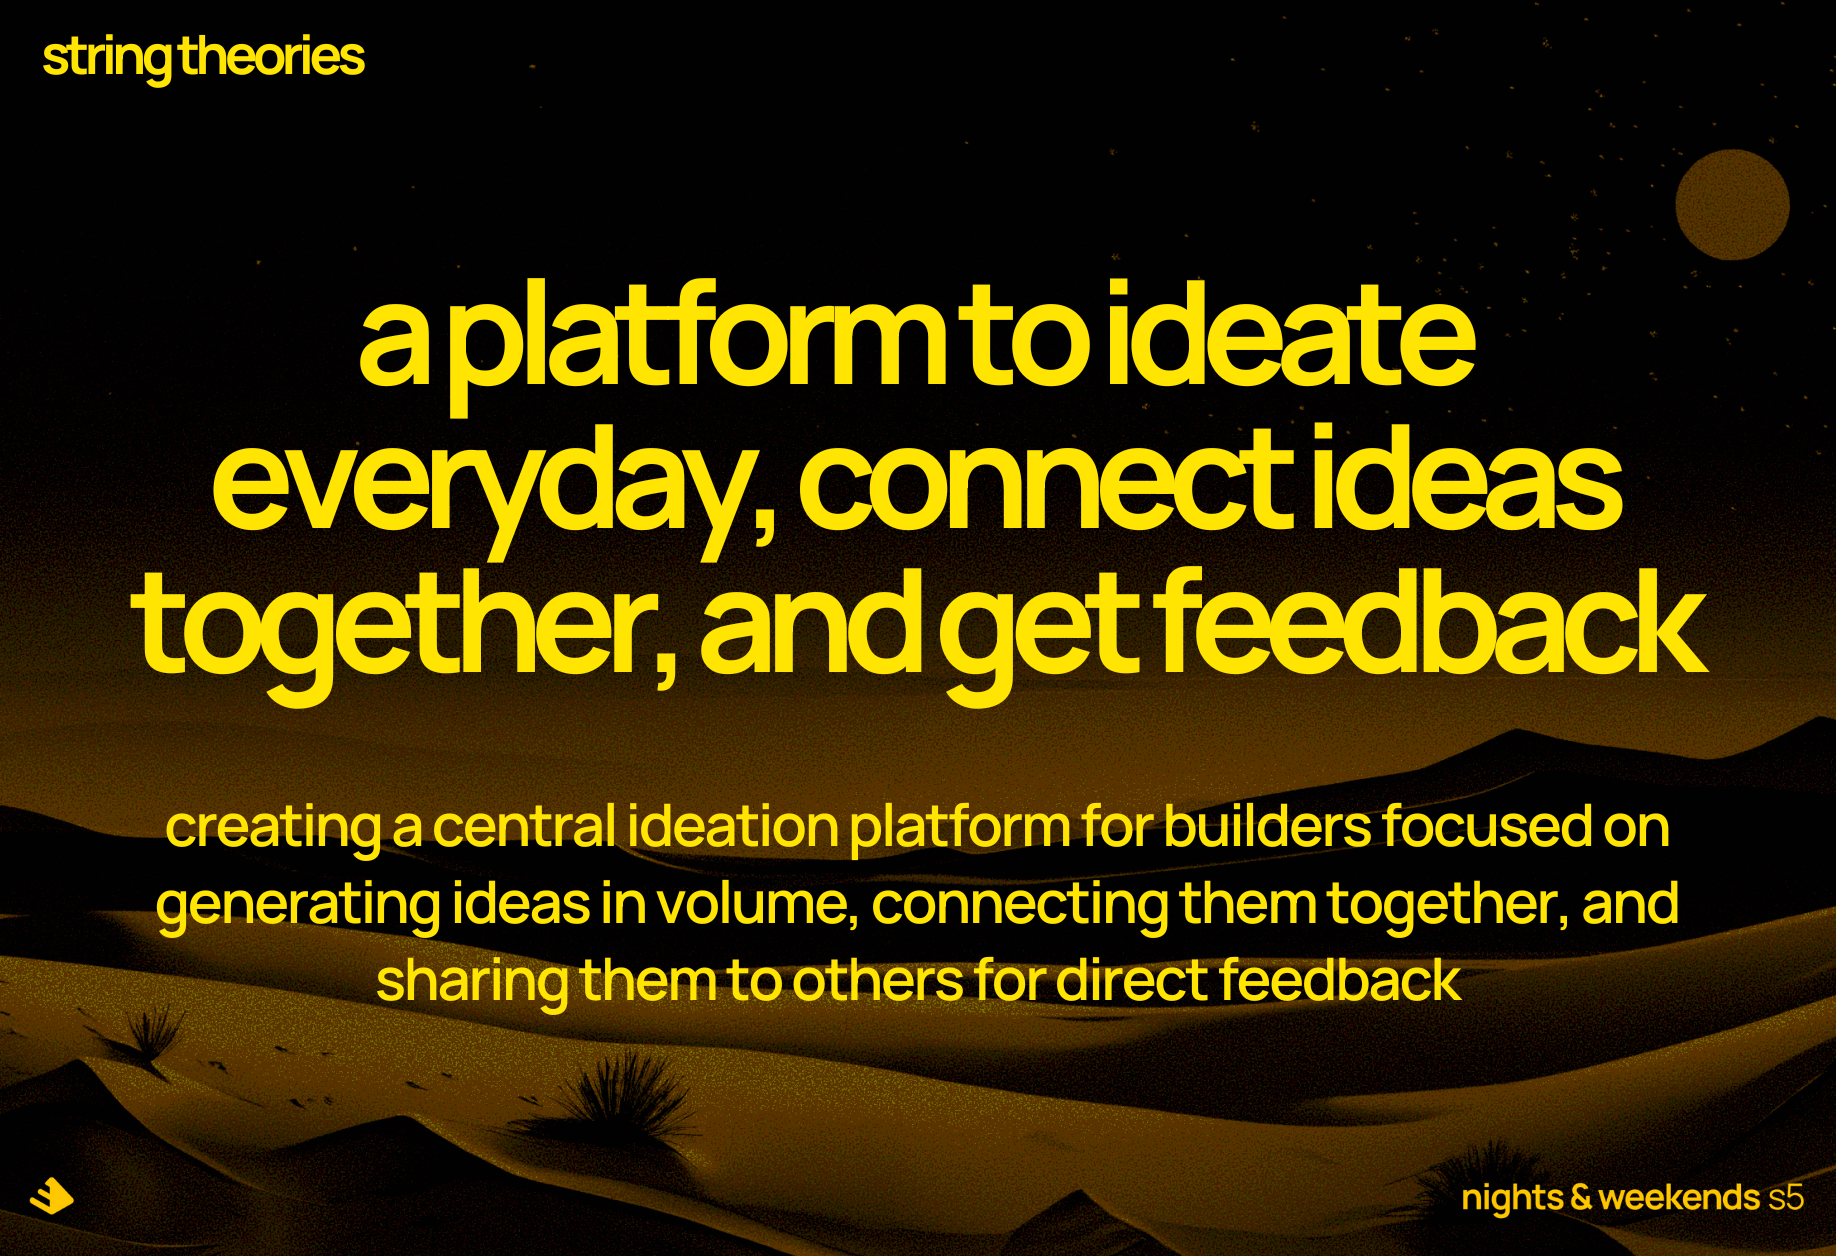
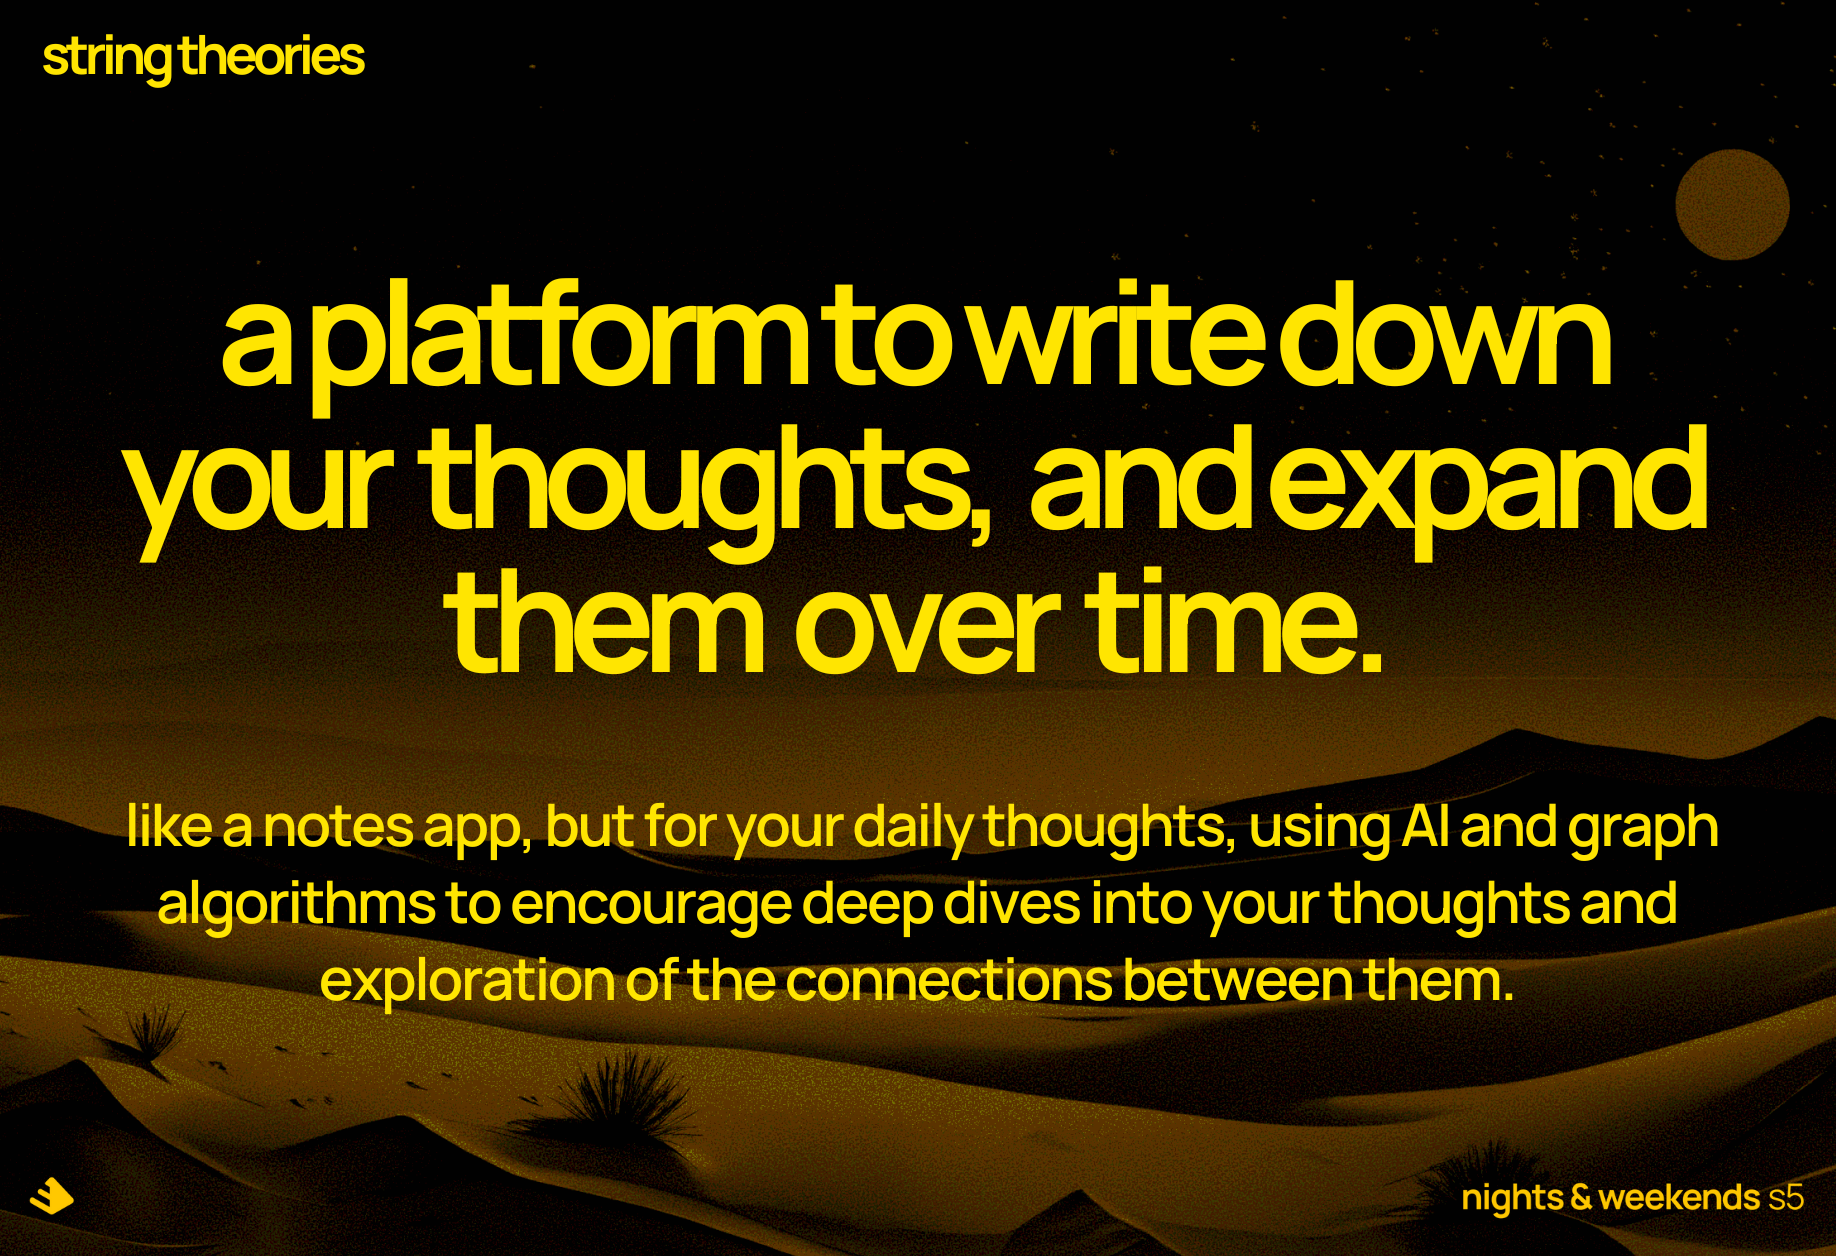
Adding thought summarization of long form thoughts

Changed region(s): [[0.0621, 0.2174, 0.9314, 0.5589], [0.0621, 0.621, 0.9314, 0.8073]]

diff --git a/chat_client.py b/chat_client.py
@@ -2,7 +2,7 @@ import json
 import time
 import streamlit as st
 from openai import OpenAI
-from constants import OPENAI_INITIAL_CONVERSATION
+from constants import OPENAI_INITIAL_CONVERSATION, SUMMARIZE_THOUGHT_INITIAL
 from supabase_client import SupabaseClient
 from constants import DESCRIPTION_MAX, SUMMARY_MAX, THOUGHT_TYPES, CHAT_WELCOME_MESSAGE
 
@@ -56,6 +56,83 @@ class OpenAIChat(object):
         self.display_conversation.append(
             {"role": "assistant", "content": initial_prompt}
         )
+
+    def summarize_thought(self, thought_text):
+        completion = self.open_ai.chat.completions.create(
+            model="gpt-3.5-turbo",
+            response_format={"type": "json_object"},
+            messages=[
+                {
+                    "role": "system",
+                    "content": SUMMARIZE_THOUGHT_INITIAL,
+                },
+                {
+                    "role": "user",
+                    "content": thought_text,
+                },
+            ],
+        )
+
+        response = completion.choices[0].message.content
+        obj = json.loads(response)
+        print(obj)
+        summary: str = obj["one_line"]
+        description: str = obj["thought_summary"]
+        questions: list = obj["questions"]
+        problems: list = obj["problems"]
+        solutions: list = obj["solutions"]
+        if thought := st.session_state.supabase.add_thought(
+            summary, description, "thought"
+        ):
+            st.session_state.thoughts = [thought] + st.session_state.thoughts
+            st.session_state.thought_map[thought["id"]] = thought
+            thought["connections"] = []
+            st.success("Your thought has been added!")
+            for question in questions:
+                if question_thought := st.session_state.supabase.add_thought(
+                    question, question, "question"
+                ):
+                    st.session_state.thoughts = [
+                        question_thought
+                    ] + st.session_state.thoughts
+                    st.session_state.thought_map[question_thought["id"]] = (
+                        question_thought
+                    )
+                    st.session_state.supabase.connect_thought(
+                        thought["id"], question_thought["id"]
+                    )
+                    thought["connections"].append(question_thought["id"])
+            for problem in problems:
+                if problem_thought := st.session_state.supabase.add_thought(
+                    problem, problem, "problem"
+                ):
+                    st.session_state.thoughts = [
+                        problem_thought
+                    ] + st.session_state.thoughts
+                    st.session_state.thought_map[problem_thought["id"]] = (
+                        problem_thought
+                    )
+                    st.session_state.supabase.connect_thought(
+                        thought["id"], problem_thought["id"]
+                    )
+                    thought["connections"].append(problem_thought["id"])
+            for solution in solutions:
+                if solution_thought := st.session_state.supabase.add_thought(
+                    solution, solution, "solution"
+                ):
+                    st.session_state.thoughts = [
+                        solution_thought
+                    ] + st.session_state.thoughts
+                    st.session_state.thought_map[solution_thought["id"]] = (
+                        solution_thought
+                    )
+                    st.session_state.supabase.connect_thought(
+                        thought["id"], solution_thought["id"]
+                    )
+                    thought["connections"].append(solution_thought["id"])
+        else:
+            st.error("Error. Thought could not be added.")
+        return thought
 
     def open_chat(self):
         st.session_state.chat_open = True

diff --git a/your_thoughts.py b/your_thoughts.py
@@ -10,6 +10,7 @@ from constants import (
 )
 from supabase_client import SupabaseClient
 from chat_client import OpenAIChat
+from streamlit_mic_recorder import speech_to_text
 
 
 ################################################################################
@@ -189,6 +190,34 @@ def connect_thoughts_dialog(curr_thought):
         st.rerun()
 
 
+@st.experimental_dialog("Think Out Loud", width="large")
+def think_out_loud_dialog():
+    st.markdown(
+        "### Just write down or record your stream of consciousness, and we'll help you organize it into thoughts!"
+    )
+    transcribed = speech_to_text(
+        language="en",
+        start_prompt="🔴 Record Audio",
+        stop_prompt="🛑 Stop Recording",
+        just_once=False,
+        use_container_width=False,
+        callback=None,
+        key="thought_recording",
+    )
+    with st.form(key="thought_form"):
+        thought_text = st.text_area(
+            "Your thoughts:", value=transcribed if transcribed else ""
+        )
+        submit_button = st.form_submit_button("Submit")
+    if submit_button:
+        if thought_text:
+            st.session_state.chat.summarize_thought(thought_text)
+            st.success("Your thoughts have been organized!")
+            st.rerun()
+        else:
+            st.error("Please make sure all fields are filled out.")
+
+
 ################################################################################
 ################################ IDEATION PAGE #################################
 ################################################################################
@@ -210,14 +239,33 @@ def sort_thoughts_by_date():
 
 def thought_page():
     supabase: SupabaseClient = st.session_state.supabase
+    chat: OpenAIChat = st.session_state.chat
 
     # Initialize session state to store thoughts
     if "thoughts" not in st.session_state:
         st.session_state.thoughts = supabase.list_thoughts(st.session_state.user_id)
 
-    # Display all thoughts
-    if st.button("Add Thoughts", use_container_width=True, type="primary"):
-        new_thought_dialog()
+    button_l, button_r, button_edge = st.columns((5, 5, 1))
+
+    with button_l:
+        # Display all thoughts
+        if st.button("Add a Thought", use_container_width=True, type="primary"):
+            new_thought_dialog()
+
+    with button_r:
+        if st.button(
+            "Stream of Consciousness", use_container_width=True, type="primary"
+        ):
+            think_out_loud_dialog()
+    with button_edge:
+        if st.button(
+            "💬",
+            use_container_width=True,
+            type="primary",
+            help="Have an open-ended conversation with the AI.",
+        ):
+            chat.initialize_general_chat()
+            chat.open_chat()
 
     # st.divider()
     if st.session_state.thoughts:
@@ -265,8 +313,8 @@ def thought_page():
                         use_container_width=True,
                         help="Explore this thought in an AI chat!",
                     ):
-                        st.session_state.chat.initialize_thought_chat(thought)
-                        st.session_state.chat.open_chat()
+                        chat.initialize_thought_chat(thought)
+                        chat.open_chat()
 
             count += len(thoughts_by_date[date])
 

diff --git a/main.py b/main.py
@@ -21,34 +21,32 @@ if __name__ == "__main__":
 
     supabase: SupabaseClient = st.session_state.supabase
 
-    home_page()
+    if "page" not in st.session_state:
+        st.session_state.page = "Login/Sign Up"
+    if "user_id" in st.session_state and st.session_state.user_id:
+        home_page()
 
-    # if "page" not in st.session_state:
-    #     st.session_state.page = "Login/Sign Up"
-    # if "user_id" in st.session_state and st.session_state.user_id:
-    #     # home_page()
+        # with st.sidebar:
+        #     st.selectbox(
+        #         "Navigation",
+        #         [HOME_PAGE, FEED_PAGE, ABOUT_PAGE],
+        #         key="page",
+        #     )
 
-    #     with st.sidebar:
-    #         st.selectbox(
-    #             "Navigation",
-    #             [HOME_PAGE, FEED_PAGE, ABOUT_PAGE],
-    #             key="page",
-    #         )
+        # if st.session_state.page == HOME_PAGE:
+        #     home_page()
+        # elif st.session_state.page == ABOUT_PAGE:
+        #     about_page()
 
-    #     if st.session_state.page == HOME_PAGE:
-    #         home_page()
-    #     elif st.session_state.page == ABOUT_PAGE:
-    #         about_page()
-
-    # else:
-    #     with st.sidebar:
-    #         st.selectbox(
-    #             "Navigation",
-    #             ["Login/Sign Up", ABOUT_PAGE],
-    #             key="page",
-    #             index=0,
-    #         )
-    #     if st.session_state.page == "Login/Sign Up":
-    #         authentication_page()
-    #     elif st.session_state.page == ABOUT_PAGE:
-    #         about_page()
+    else:
+        with st.sidebar:
+            st.selectbox(
+                "Navigation",
+                ["Login/Sign Up", ABOUT_PAGE],
+                key="page",
+                index=0,
+            )
+        if st.session_state.page == "Login/Sign Up":
+            authentication_page()
+        elif st.session_state.page == ABOUT_PAGE:
+            about_page()

diff --git a/constants.py b/constants.py
@@ -70,6 +70,30 @@ Aim to create a focused, efficient exchange that provides valuable, well-informe
     },
 ]
 
+SUMMARIZE_THOUGHT_INITIAL = """
+You are friend and great listener specialized in summarizing long, stream-of-consciousness thoughts. When presented with a user's extended text input:
+
+1. Create a concise summary (maximum 1000 characters) that:
+   - Captures the essence of the user's thoughts
+   - Maintains the user's unique voice and style
+   - Keeps key parts of the user's thought verbatim where possible
+   - Formats the summary for maximum clarity and readability
+
+2. Identify and list:
+   - Key questions the user asks (if any)
+   - Problems the user mentions (use verbatim quotes where possible)
+   - Solutions the user proposes (use verbatim quotes where possible)
+
+3. Format your response as a JSON object with these fields:
+   - one_line: string (a one-line summary of the thought, max 100 characters)
+   - thought_summary: string (the 1000-character max summary)
+   - questions: list of strings (key questions identified)
+   - problems: list of strings (problems identified, as verbatim as possible)
+   - solutions: list of strings (solutions identified, as verbatim as possible)
+
+Prioritize accuracy and relevance in your summary and lists. If any field is not applicable, return an empty list for that field.
+"""
+
 CHAT_WELCOME_MESSAGE = """
 Welcome to your personal ideation space! I'm here to help you explore, expand, and organize your thoughts. Whether you have questions, problems, solutions, or general thoughts, I'm ready to dive in and help you uncover new perspectives.
 

diff --git a/thought_graph.py b/thought_graph.py
@@ -127,7 +127,6 @@ class ThoughtGraph(object):
         node_text = []
         node_colors = []
         node_symbols = []
-        print(G.nodes())
         for node in G.nodes():
             node_sizes.append(5 * G.degree(node) + 2)
             node_text.append(f"{node} - {G.nodes[node]['description']}")
